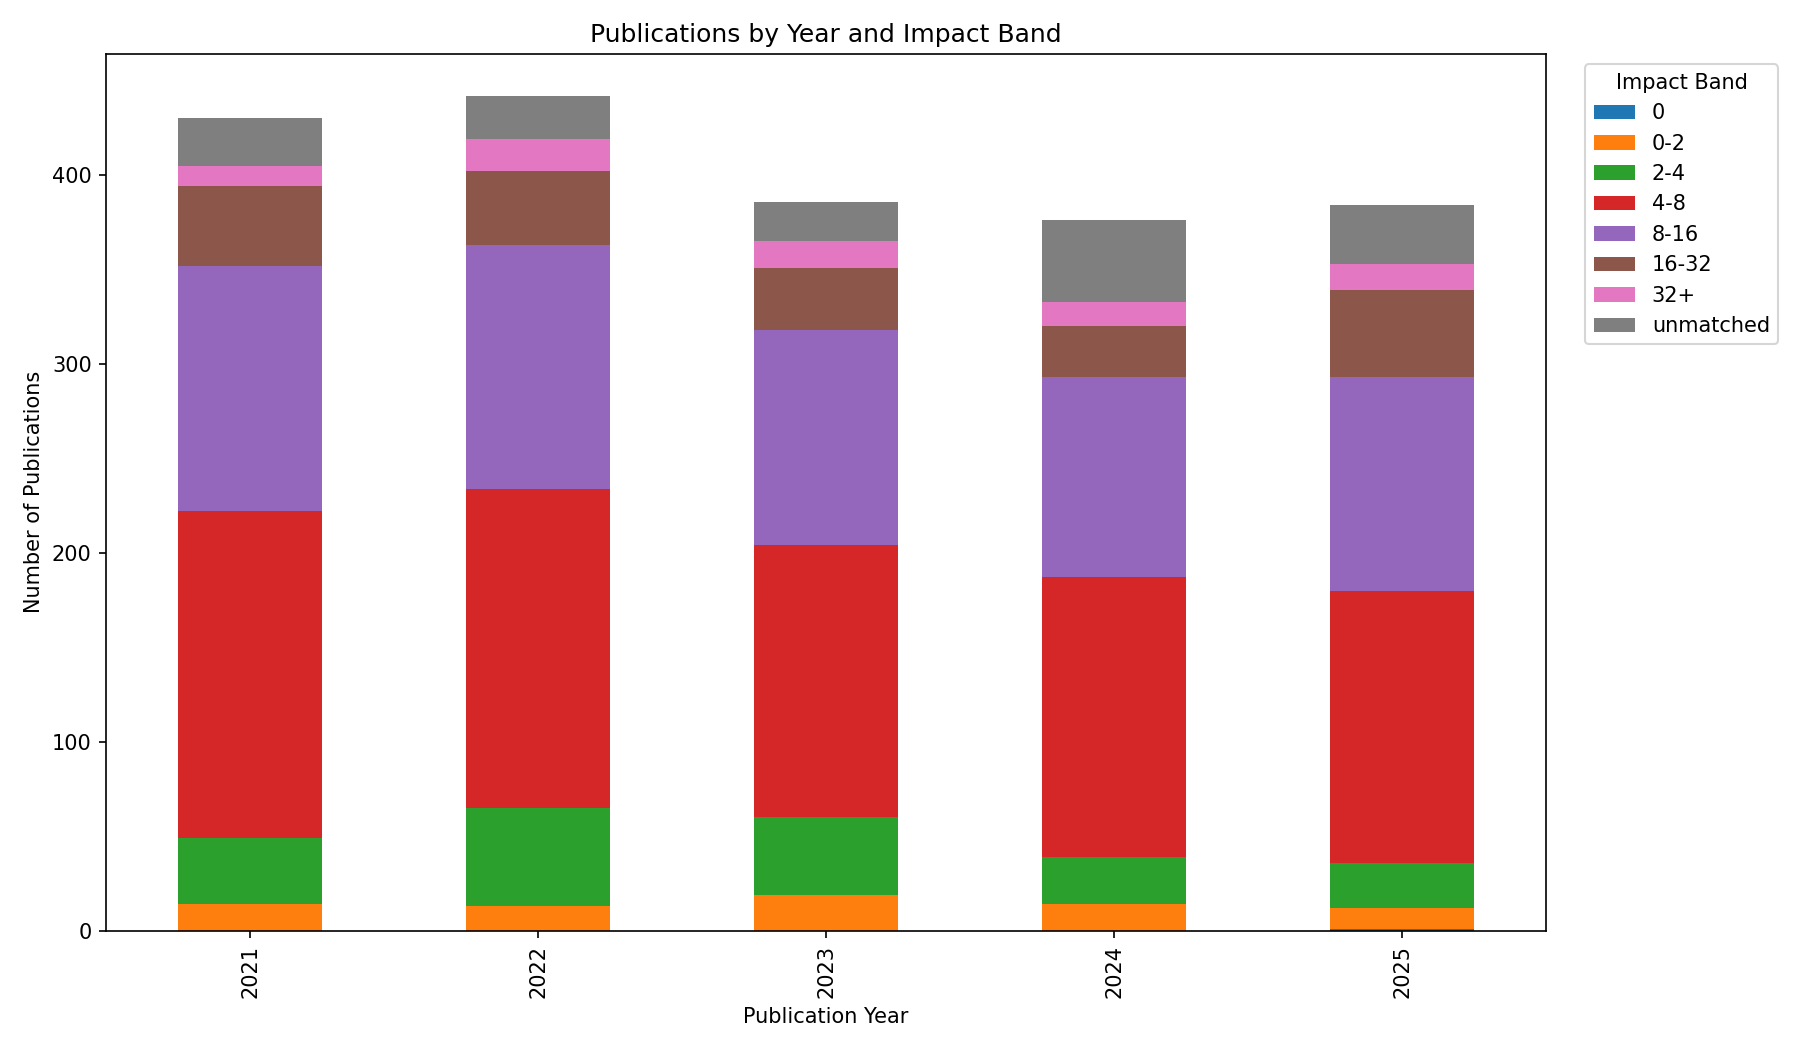
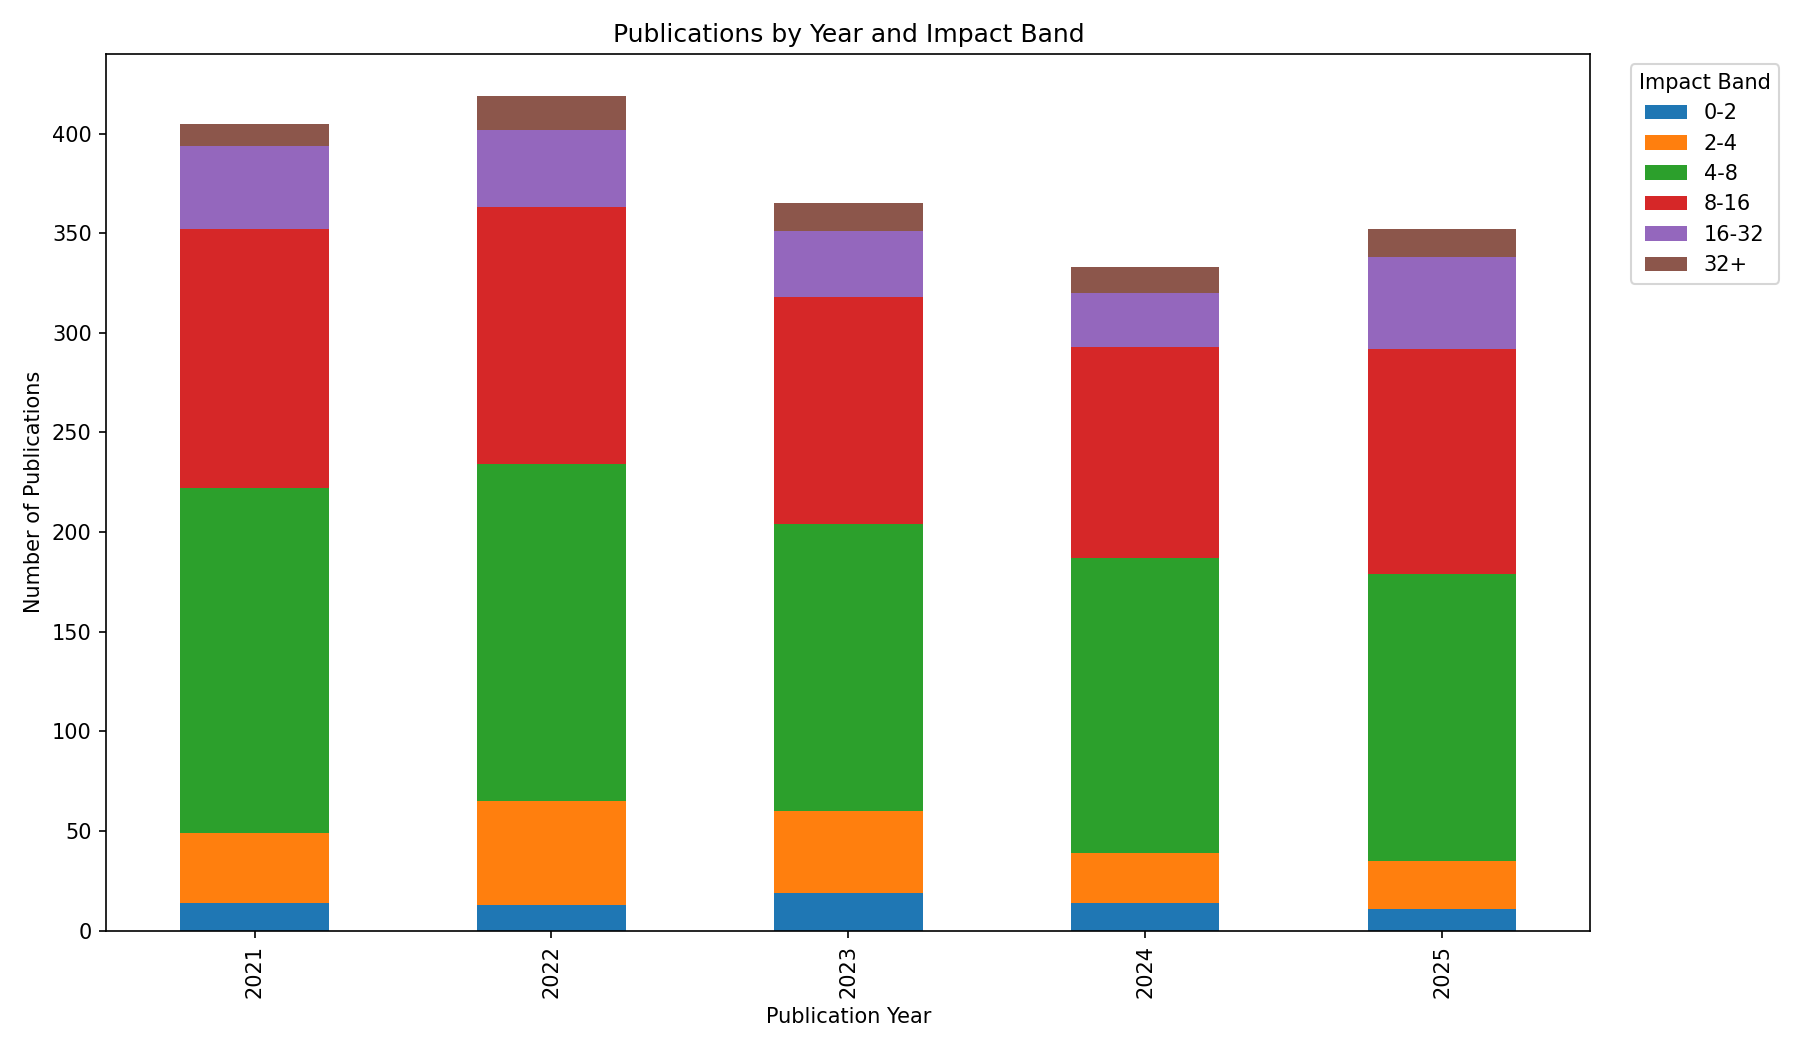
removing unmatched and zero from fi

diff --git a/summarise_impact_factor.py b/summarise_impact_factor.py
@@ -9,6 +9,7 @@ import yaml
 
 
 IMPACT_BAND_ORDER = ["0", "0-2", "2-4", "4-8", "8-16", "16-32", "32+", "unmatched"]
+DISPLAY_IMPACT_BAND_ORDER = ["0-2", "2-4", "4-8", "8-16", "16-32", "32+"]
 
 
 def normalise_journal_name(name: str) -> str:
@@ -282,9 +283,15 @@ def write_outputs(merged: pd.DataFrame, output_prefix: str) -> None:
     )
     by_year_bands = by_year_bands.sort_values(["pub_year", "impact_band"], na_position="last")
 
+    by_year_bands = by_year_bands[by_year_bands["impact_band"].isin(DISPLAY_IMPACT_BAND_ORDER)].copy()
+    by_year_bands["impact_band"] = pd.Categorical(
+        by_year_bands["impact_band"], categories=DISPLAY_IMPACT_BAND_ORDER, ordered=True
+    )
+    by_year_bands = by_year_bands.sort_values(["pub_year", "impact_band"], na_position="last")
+
     plot_df = (
         by_year_bands.pivot(index="pub_year", columns="impact_band", values="publications")
-        .reindex(columns=IMPACT_BAND_ORDER)
+        .reindex(columns=DISPLAY_IMPACT_BAND_ORDER)
         .fillna(0)
     )
     if not plot_df.empty:
